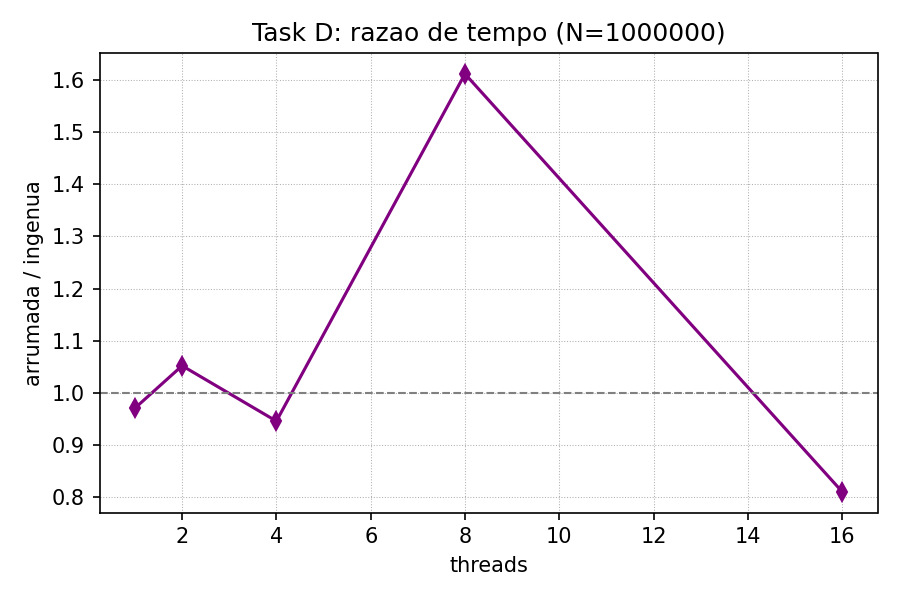
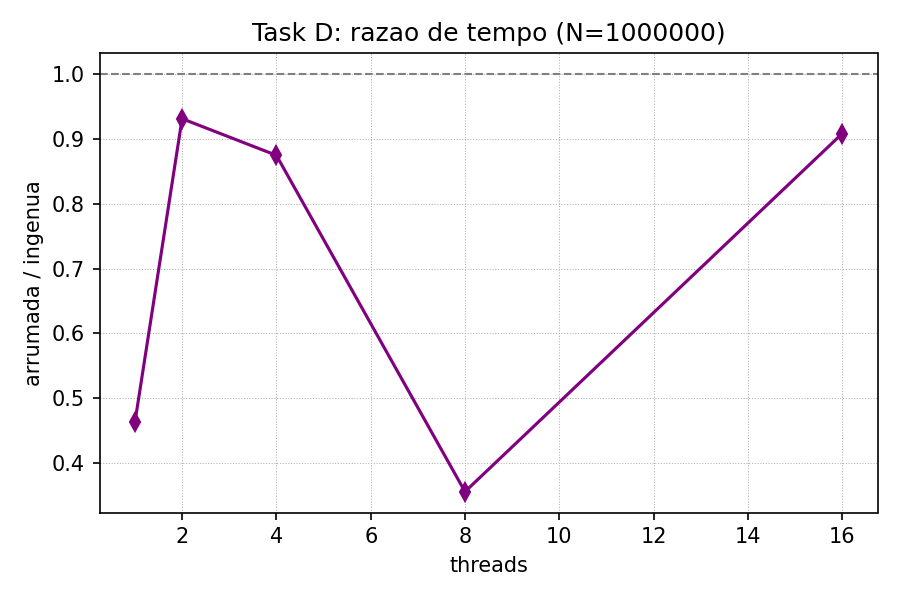
Atualiza labels em portugues e regera graficos

diff --git a/trabalho1/task-d.c b/trabalho1/task-d.c
@@ -1,115 +1,115 @@
-// OpenMP overhead experiment: naive vs tidy parallel regions for two loops.
+// Experimento de overhead OpenMP: duas regioes parallel for ingênuas vs uma região parallel arrumada englobando dois for.
 #include <omp.h>
 #include <stdio.h>
 #include <stdlib.h>
 
-static void init_input(double *a, double *b, size_t n) {
-	for (size_t i = 0; i < n; i++) {
-		a[i] = (double)(i % 1024) * 0.5;
-		b[i] = 0.0;
+static void inicializa_entrada(double *vetor_a, double *vetor_b, size_t n_elementos) {
+	for (size_t i = 0; i < n_elementos; i++) {
+		vetor_a[i] = (double)(i % 1024) * 0.5;
+		vetor_b[i] = 0.0;
 	}
 }
 
-static double checksum(const double *v, size_t n) {
-	double acc = 0.0;
-	for (size_t i = 0; i < n; i++) {
-		acc += v[i];
+static double soma_verificacao(const double *vetor, size_t n_elementos) {
+	double acumulador = 0.0;
+	for (size_t i = 0; i < n_elementos; i++) {
+		acumulador += vetor[i];
 	}
-	return acc;
+	return acumulador;
 }
 
-static double run_naive(double *a, double *b, size_t n) {
-	double t0 = omp_get_wtime();
+static double executa_ingenua(double *vetor_a, double *vetor_b, size_t n_elementos) {
+	double t_inicio = omp_get_wtime();
 
 	#pragma omp parallel for schedule(static)
-	for (size_t i = 0; i < n; i++) {
-		a[i] = a[i] * 1.0001 + 1.0;
+	for (size_t i = 0; i < n_elementos; i++) {
+		vetor_a[i] = vetor_a[i] * 1.0001 + 1.0;
 	}
 
 	#pragma omp parallel for schedule(static)
-	for (size_t i = 0; i < n; i++) {
-		b[i] = a[i] * 2.0 + 3.0;
+	for (size_t i = 0; i < n_elementos; i++) {
+		vetor_b[i] = vetor_a[i] * 2.0 + 3.0;
 	}
 
-	double t1 = omp_get_wtime();
-	return t1 - t0;
+	double t_fim = omp_get_wtime();
+	return t_fim - t_inicio;
 }
 
-static double run_tidy(double *a, double *b, size_t n) {
-	double t0 = omp_get_wtime();
+static double executa_arrumada(double *vetor_a, double *vetor_b, size_t n_elementos) {
+	double t_inicio = omp_get_wtime();
 
 	#pragma omp parallel
 	{
 		#pragma omp for schedule(static)
-		for (size_t i = 0; i < n; i++) {
-			a[i] = a[i] * 1.0001 + 1.0;
+		for (size_t i = 0; i < n_elementos; i++) {
+			vetor_a[i] = vetor_a[i] * 1.0001 + 1.0;
 		}
 
 		#pragma omp for schedule(static)
-		for (size_t i = 0; i < n; i++) {
-			b[i] = a[i] * 2.0 + 3.0;
+		for (size_t i = 0; i < n_elementos; i++) {
+			vetor_b[i] = vetor_a[i] * 2.0 + 3.0;
 		}
 	}
 
-	double t1 = omp_get_wtime();
-	return t1 - t0;
+	double t_fim = omp_get_wtime();
+	return t_fim - t_inicio;
 }
 
 int main(int argc, char **argv) {
-	size_t n = 1000000UL;
-	int reps = 5;
-	int threads = 0; // 0 means use OMP default
+	size_t n_elementos = 1000000UL;
+	int repeticoes = 5;
+	int num_threads = 0; // 0 significa usar o padrão do OMP
 
 	if (argc > 1) {
-		n = strtoull(argv[1], NULL, 10);
+		n_elementos = strtoull(argv[1], NULL, 10);
 	}
 	if (argc > 2) {
-		reps = atoi(argv[2]);
-		if (reps < 1) {
-			reps = 1;
+		repeticoes = atoi(argv[2]);
+		if (repeticoes < 1) {
+			repeticoes = 1;
 		}
 	}
 	if (argc > 3) {
-		threads = atoi(argv[3]);
+		num_threads = atoi(argv[3]);
 	}
 
-	if (threads > 0) {
-		omp_set_num_threads(threads);
+	if (num_threads > 0) {
+		omp_set_num_threads(num_threads);
 	}
 
-	threads = omp_get_max_threads();
+	num_threads = omp_get_max_threads();
 
-	double *a = (double *)malloc(n * sizeof(double));
-	double *b = (double *)malloc(n * sizeof(double));
-	if (!a || !b) {
+	double *vetor_a = (double *)malloc(n_elementos * sizeof(double));
+	double *vetor_b = (double *)malloc(n_elementos * sizeof(double));
+	if (!vetor_a || !vetor_b) {
 		fprintf(stderr, "Erro ao alocar vetores.\n");
-		free(a);
-		free(b);
+		free(vetor_a);
+		free(vetor_b);
 		return 1;
 	}
 
-	// Warm-up run to reduce first-use noise.
-	init_input(a, b, n);
-	run_naive(a, b, n);
+	// Aquecimento para reduzir ruído de primeira execução.
+	inicializa_entrada(vetor_a, vetor_b, n_elementos);
+	executa_ingenua(vetor_a, vetor_b, n_elementos);
 
-	double total_naive = 0.0;
-	double total_tidy = 0.0;
-	double last_checksum = 0.0;
+	double total_ingenua = 0.0;
+	double total_arrumada = 0.0;
+	double ultima_soma = 0.0;
 
-	for (int r = 0; r < reps; r++) {
-		init_input(a, b, n);
-		total_naive += run_naive(a, b, n);
-		last_checksum = checksum(b, n);
+	for (int r = 0; r < repeticoes; r++) {
+		inicializa_entrada(vetor_a, vetor_b, n_elementos);
+		total_ingenua += executa_ingenua(vetor_a, vetor_b, n_elementos);
+		ultima_soma = soma_verificacao(vetor_b, n_elementos);
 
-		init_input(a, b, n);
-		total_tidy += run_tidy(a, b, n);
+		inicializa_entrada(vetor_a, vetor_b, n_elementos);
+		total_arrumada += executa_arrumada(vetor_a, vetor_b, n_elementos);
 	}
 
 	printf("variant,n,threads,reps,avg_time_sec,checksum\n");
-	printf("naive,%zu,%d,%d,%.6f,%.6f\n", n, threads, reps, total_naive / reps, last_checksum);
-	printf("tidy,%zu,%d,%d,%.6f,%.6f\n", n, threads, reps, total_tidy / reps, last_checksum);
+	printf("naive,%zu,%d,%d,%.6f,%.6f\n", n_elementos, num_threads, repeticoes, total_ingenua / repeticoes, ultima_soma);
+	printf("tidy,%zu,%d,%d,%.6f,%.6f\n", n_elementos, num_threads, repeticoes, total_arrumada / repeticoes, ultima_soma);
 
-	free(a);
-	free(b);
+	free(vetor_a);
+	free(vetor_b);
 	return 0;
 }

diff --git a/trabalho1/plot.py b/trabalho1/plot.py
@@ -25,12 +25,12 @@ def plot_times(data):
     os.makedirs(PLOTS_DIR, exist_ok=True)
     for n, by_threads in data.items():
         threads = sorted(by_threads.keys())
-        naive = [by_threads[t].get("naive") for t in threads]
-        tidy = [by_threads[t].get("tidy") for t in threads]
+        ingenua = [by_threads[t].get("naive") for t in threads]
+        arrumada = [by_threads[t].get("tidy") for t in threads]
 
         plt.figure(figsize=(6, 4))
-        plt.plot(threads, naive, marker="o", label="naive: 2 parallel for")
-        plt.plot(threads, tidy, marker="s", label="arrumada: 1 parallel + 2 for")
+        plt.plot(threads, ingenua, marker="o", label="ingenua: 2 parallel for")
+        plt.plot(threads, arrumada, marker="s", label="arrumada: 1 parallel + 2 for")
         plt.xlabel("threads")
         plt.ylabel("tempo medio (s)")
         plt.title(f"Task D: tempo vs threads (N={n})")
@@ -40,13 +40,13 @@ def plot_times(data):
         plt.savefig(os.path.join(PLOTS_DIR, f"task_d_time_N{n}.png"), dpi=150)
         plt.close()
 
-        ratios = []
+        razoes = []
         for t in threads:
-            naive_t = by_threads[t].get("naive")
-            tidy_t = by_threads[t].get("tidy")
-            ratios.append(tidy_t / naive_t if naive_t else float("nan"))
+            ingenua_t = by_threads[t].get("naive")
+            arrumada_t = by_threads[t].get("tidy")
+            razoes.append(arrumada_t / ingenua_t if ingenua_t else float("nan"))
         plt.figure(figsize=(6, 4))
-        plt.plot(threads, ratios, marker="d", color="purple")
+        plt.plot(threads, razoes, marker="d", color="purple")
         plt.xlabel("threads")
         plt.ylabel("arrumada / ingenua")
         plt.title(f"Task D: razao de tempo (N={n})")
